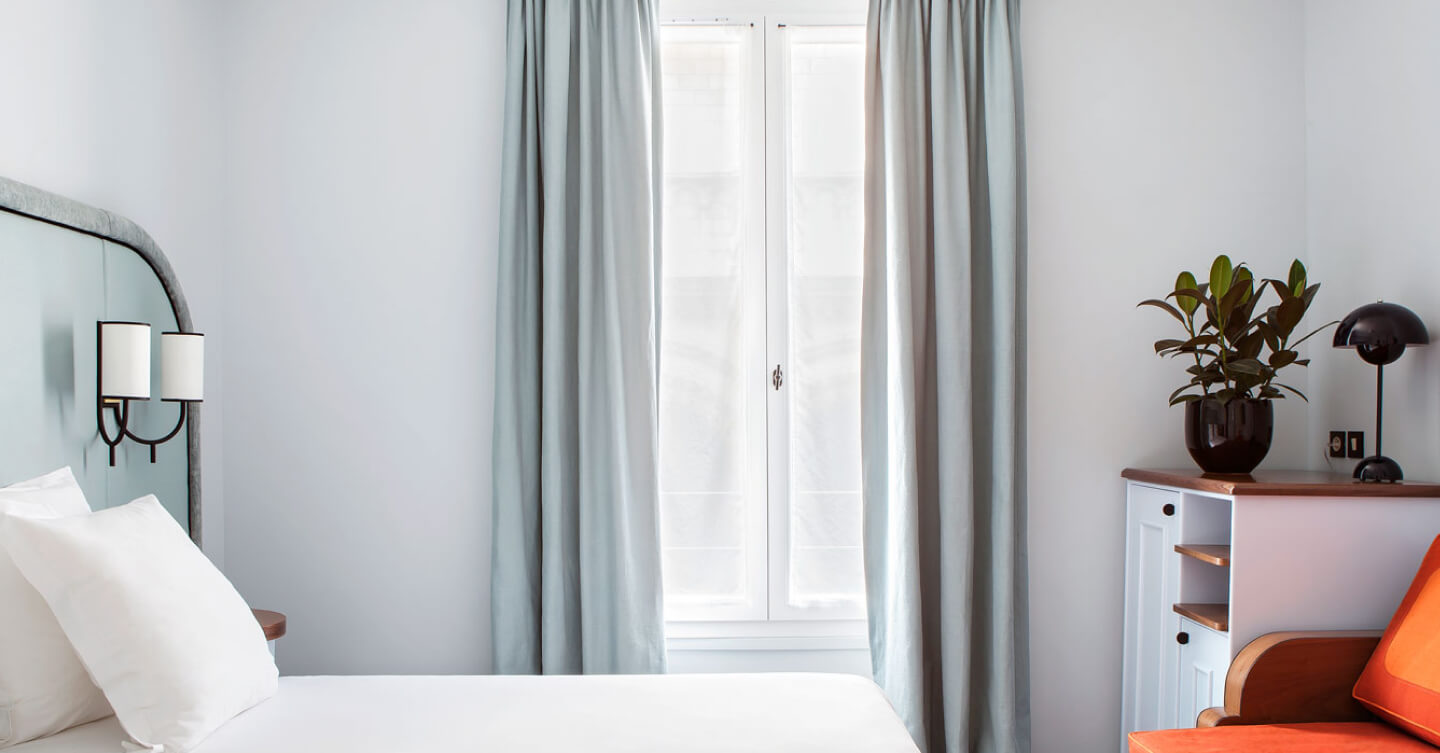
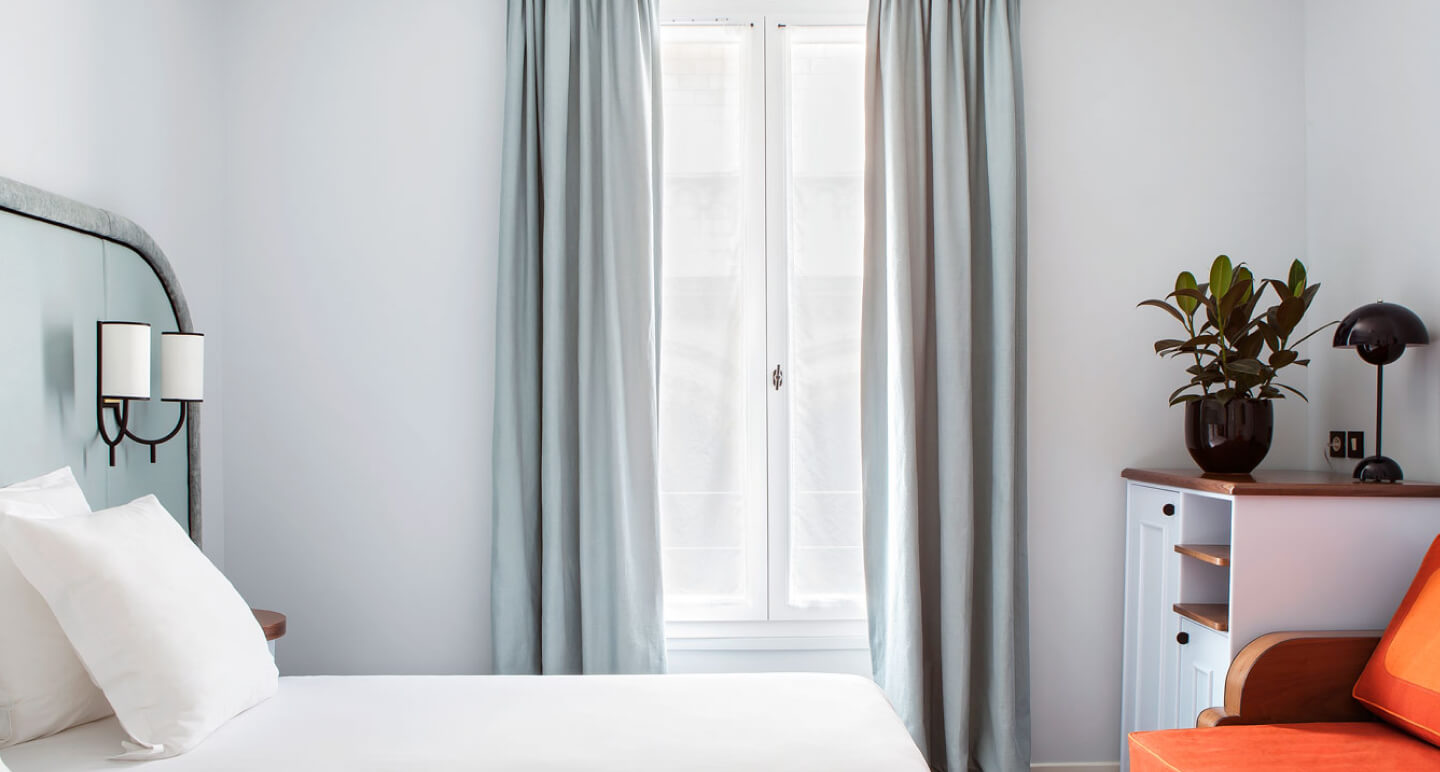
Created index, register, login pages with UI elems

diff --git a/src/scss/_login.scss b/src/scss/_login.scss
@@ -1,8 +1,8 @@
-.registration {
+.login {
     background: url("../static/images/backgroundSignIn.jpg") no-repeat;
     background-size: cover;
-    background-position: 0 78%;
-    height: 900px;
+    height: 925px;
+    background-position: 0 100%;
     display: flex;
     align-items: center;
     justify-content: center;

diff --git a/src/scss/style.scss b/src/scss/style.scss
@@ -69,6 +69,8 @@ ul {
 
 @import "_registration.scss";
 
+@import "_login.scss";
+
 @import "_header.scss";
 
 @import "_footer.scss";

diff --git a/src/scss/_mediaQueries.scss b/src/scss/_mediaQueries.scss
@@ -112,6 +112,3 @@
         }
     }
 }
-
-@media (max-width:570px) {
-}
